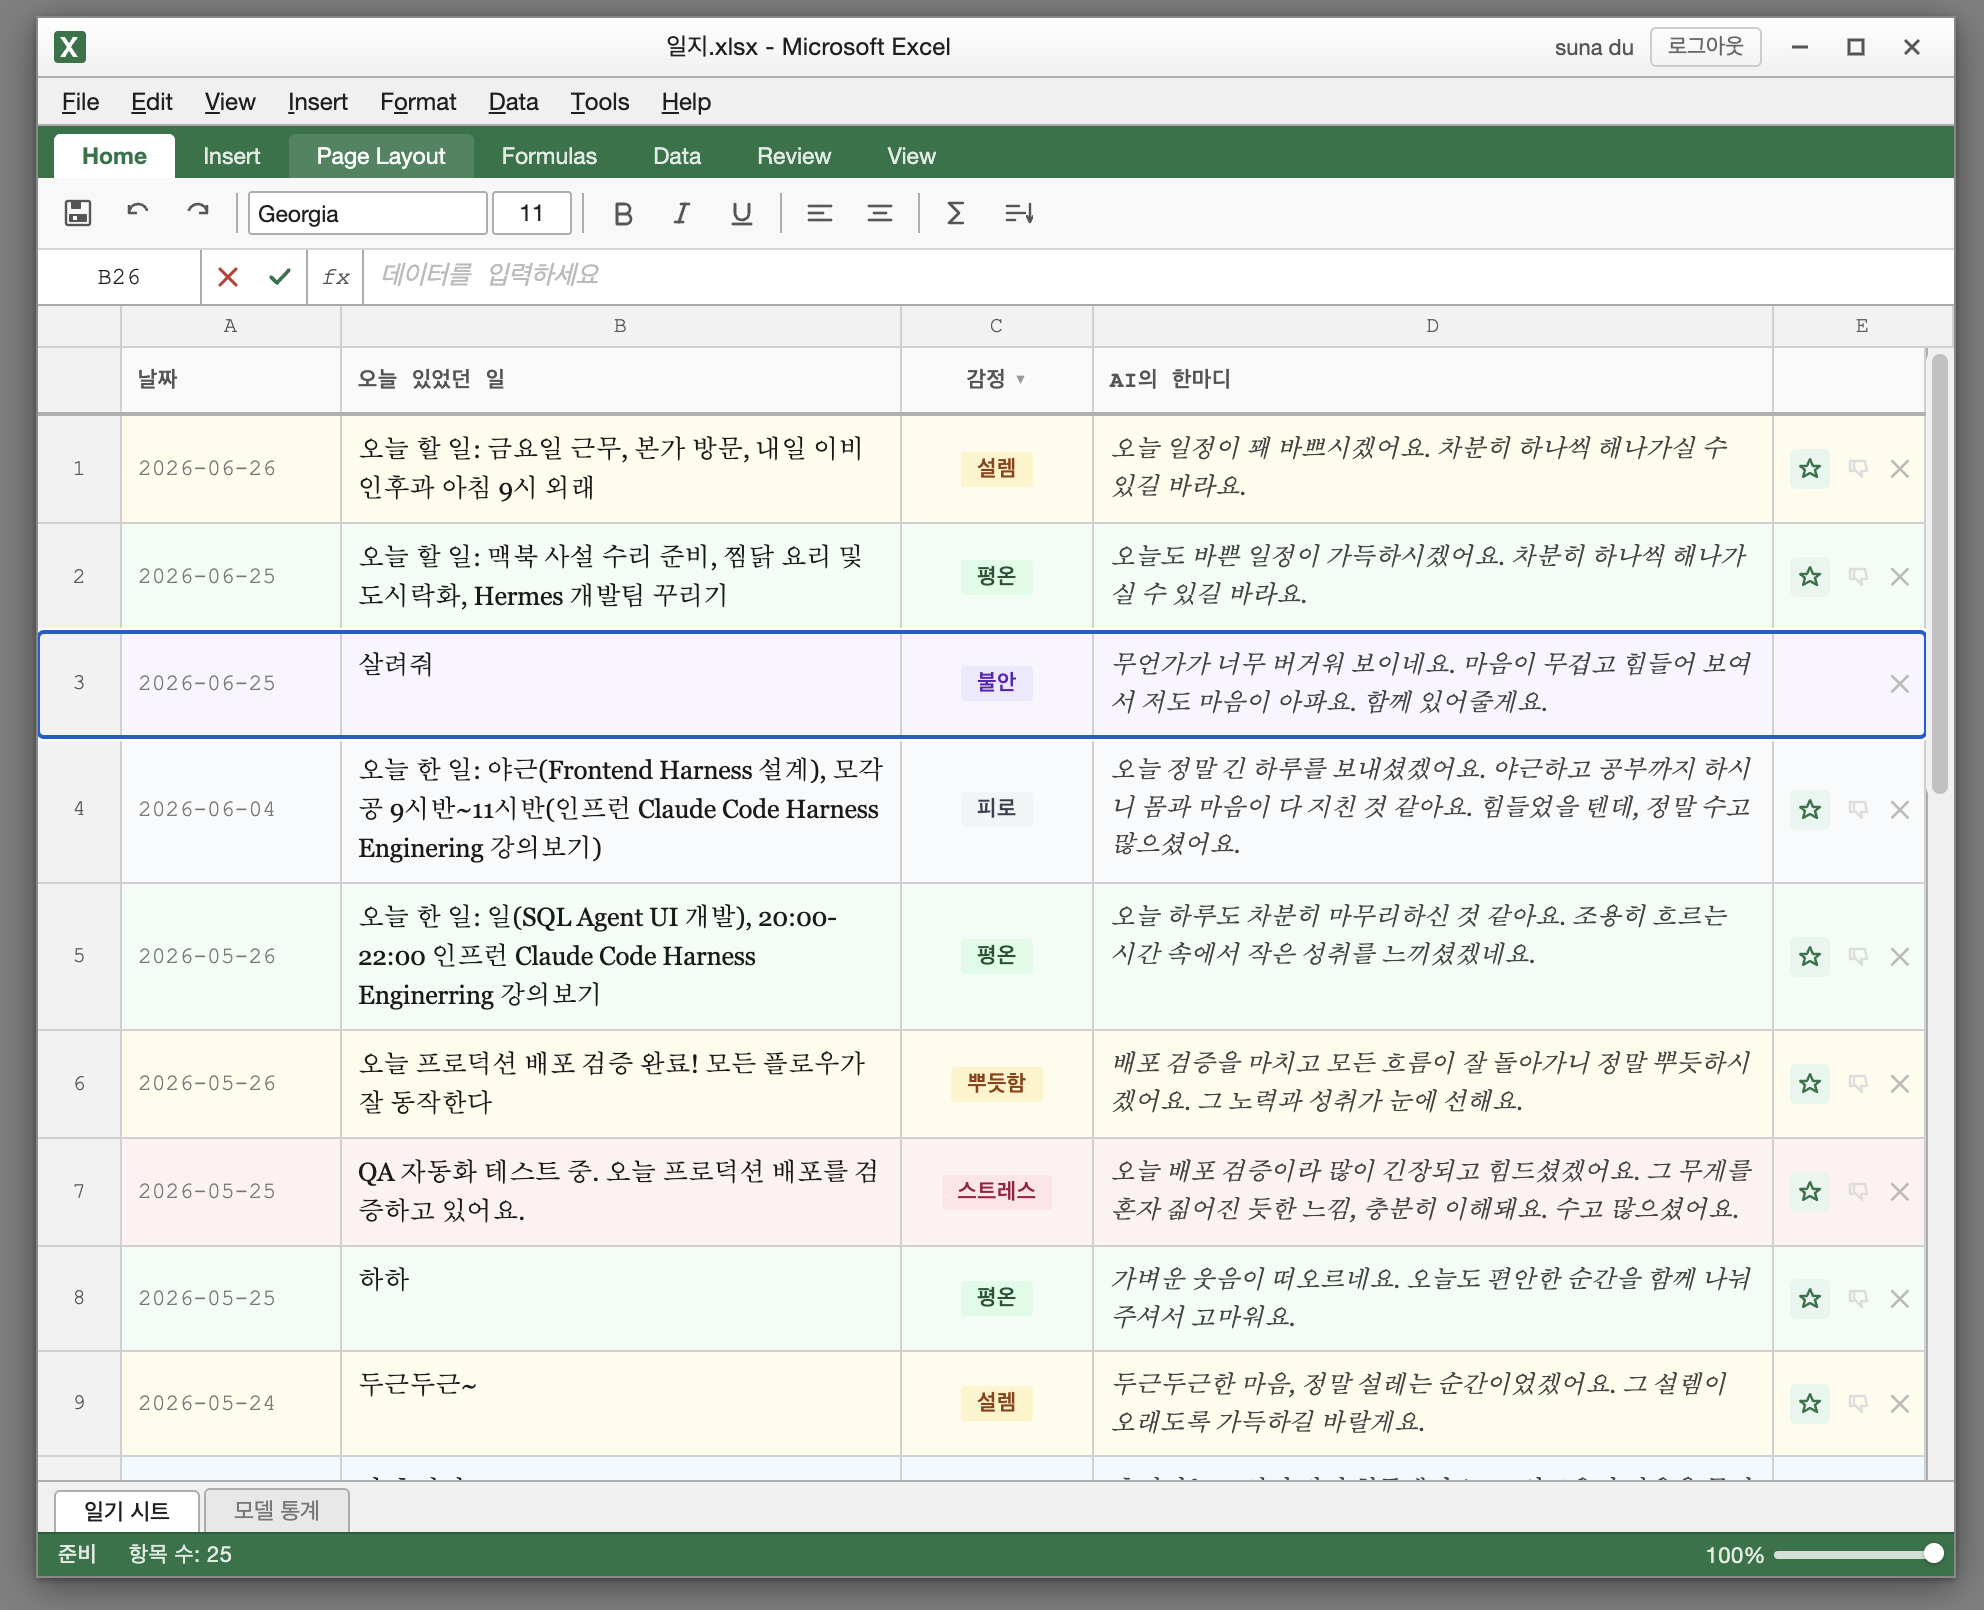
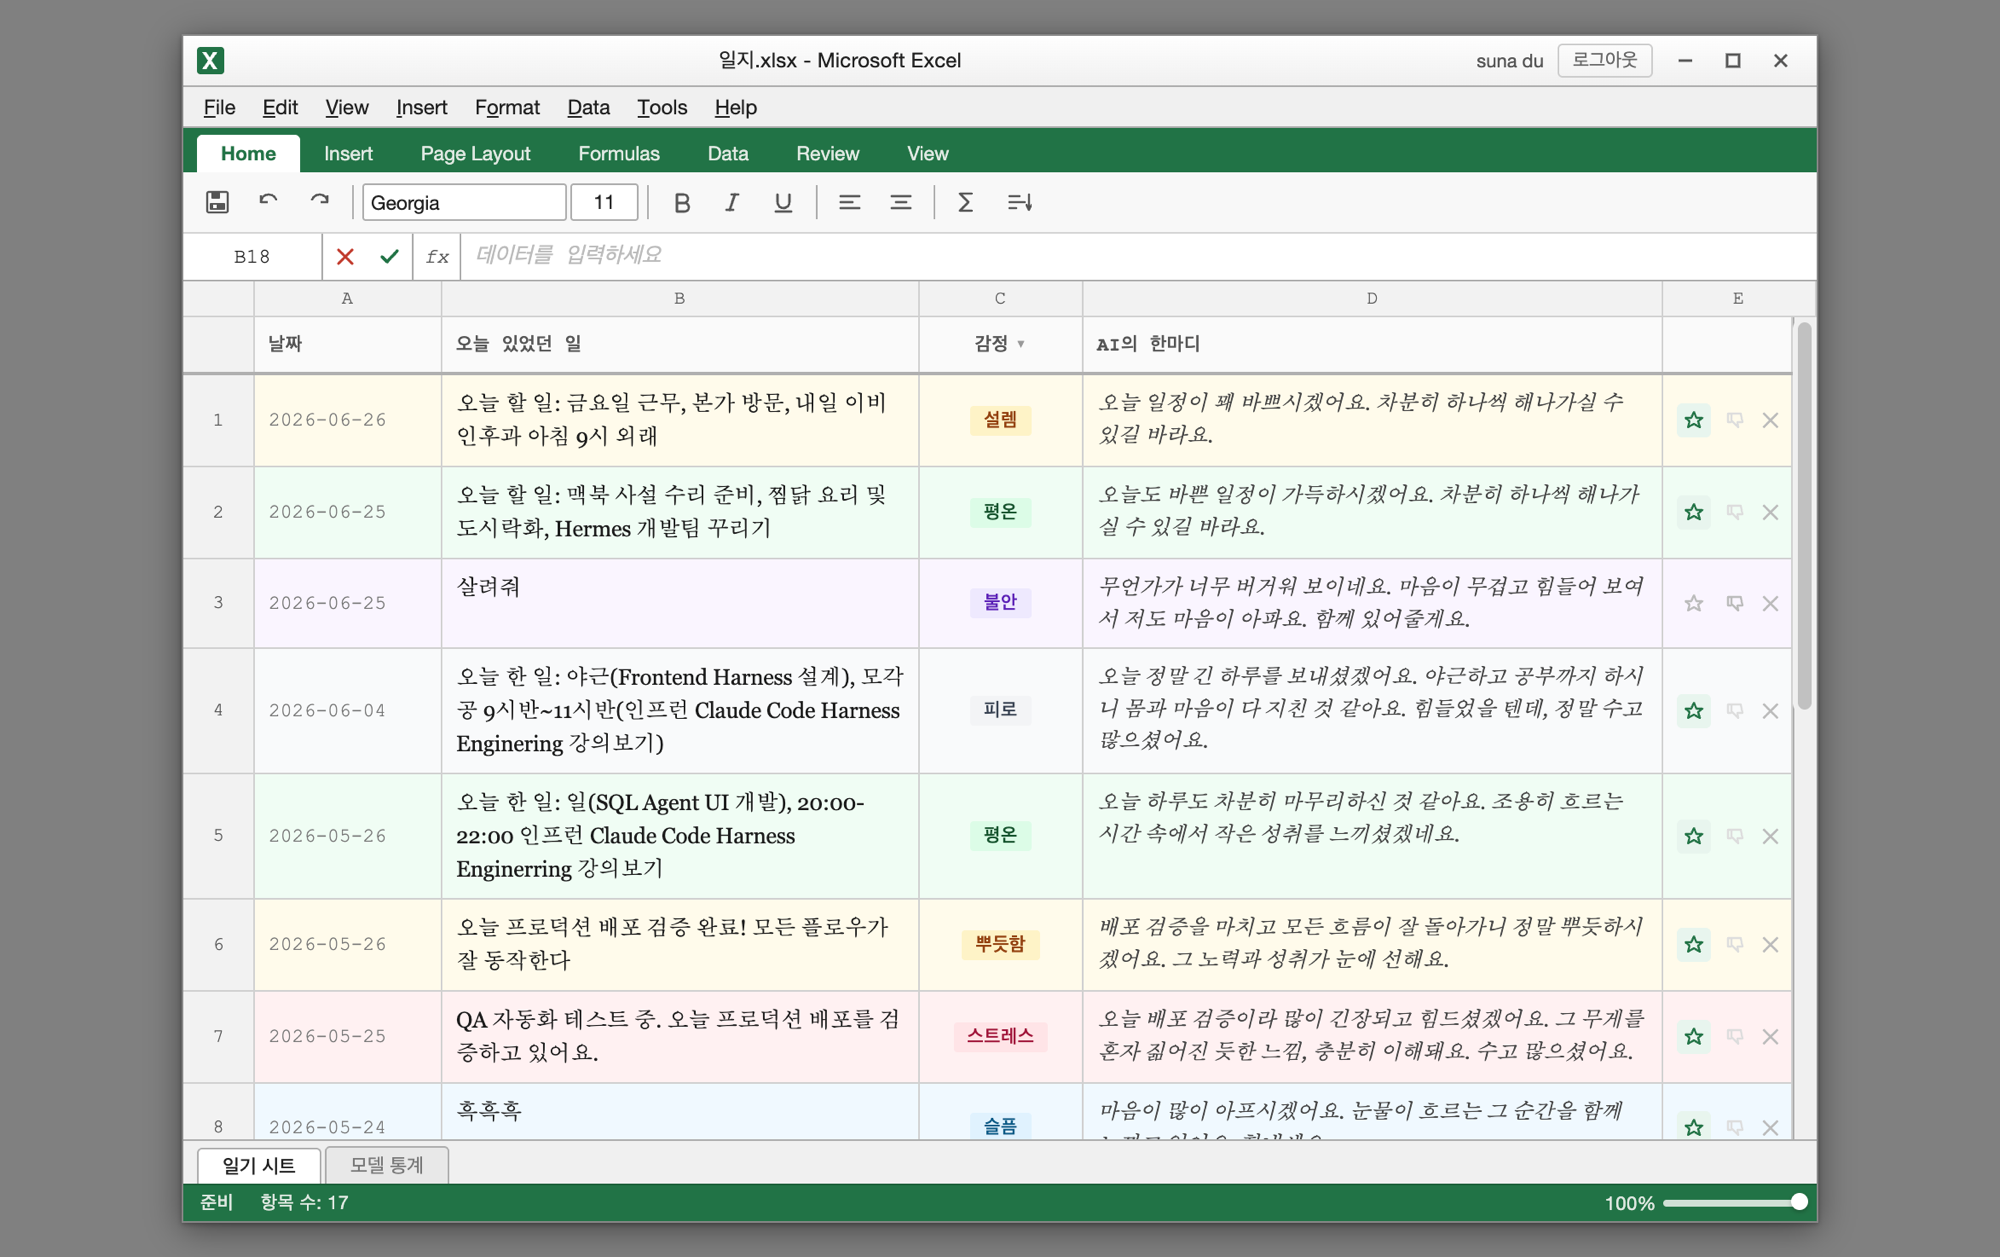
docs(sprint/ai-empathy-diary/10): 화면 캡처 슬라이드 이미지 교체 및 레이아웃 개선

diff --git a/docs/presentations/sprint-ai-empathy-diary-10-report-260627.html b/docs/presentations/sprint-ai-empathy-diary-10-report-260627.html
@@ -204,28 +204,28 @@
   <div class="slide">
     <div class="slide-inner">
       <div class="slide-label">캡처</div>
-      <h2 class="slide-title" style="margin-bottom: 16px;">화면 캡처</h2>
-      <div class="two-col" style="gap: 24px; align-items: flex-start;">
-        <div style="flex: 3;">
-          <p class="col-section-head">데스크탑 — 일기 목록 (실 데이터)</p>
+      <h2 class="slide-title" style="margin-bottom: 12px;">화면 캡처</h2>
+      <div style="display: flex; gap: 20px; align-items: flex-start; width: 100%;">
+        <div style="display: flex; flex-direction: column; gap: 6px; flex-shrink: 1; min-width: 0;">
+          <p class="col-section-head" style="margin-bottom: 0;">데스크탑 — 일기 목록 (실 데이터)</p>
           <img
             src="./sprint-ai-empathy-diary-10/shot-desktop.png"
-            alt="데스크탑 화면: 엑셀 테마 일기 목록, 삭제·피드백 버튼 항상 표시"
-            style="width: 100%; border: 1px solid #e5e7eb; border-radius: 6px; display: block;"
+            alt="데스크탑: 엑셀 테마 일기 목록, 감정 배지 클릭 수정, 삭제·피드백 버튼 항상 표시"
+            style="max-height: 400px; width: auto; max-width: 100%; border: 1px solid #e5e7eb; border-radius: 6px; display: block;"
           />
-          <p style="font-size: 11px; color: #9ca3af; margin-top: 6px; line-height: 1.4;">
-            행별 감정 배지(클릭 수정), ✕ 삭제 · ☆ 피드백 버튼 항상 표시 — hover 의존 제거
+          <p style="font-size: 11px; color: #9ca3af; line-height: 1.4; margin: 0;">
+            감정 배지 직접 클릭 수정 · ✕ 삭제 · ☆ 피드백 항상 표시
           </p>
         </div>
-        <div style="flex: 1;">
-          <p class="col-section-head">모바일 390px — 로그인</p>
+        <div style="display: flex; flex-direction: column; gap: 6px; flex-shrink: 0;">
+          <p class="col-section-head" style="margin-bottom: 0;">모바일 390px — KakaoTalk 엑셀 테마</p>
           <img
             src="./sprint-ai-empathy-diary-10/shot-mobile.png"
-            alt="모바일 화면: 390px 반응형 로그인"
-            style="width: 100%; border: 1px solid #e5e7eb; border-radius: 6px; display: block;"
+            alt="모바일: 390px KakaoTalk 스타일 horizontal grid, 행 번호 + col-b/c"
+            style="max-height: 400px; width: auto; border: 1px solid #e5e7eb; border-radius: 6px; display: block;"
           />
-          <p style="font-size: 11px; color: #9ca3af; margin-top: 6px; line-height: 1.4;">
-            mobile-overlay 제거, 767px 이하 대응 — KakaoTalk 엑셀 테마 horizontal grid
+          <p style="font-size: 11px; color: #9ca3af; line-height: 1.4; margin: 0;">
+            행 번호 + col-b/c 유지 · 날짜 인라인 · 전송 버튼 초록
           </p>
         </div>
       </div>